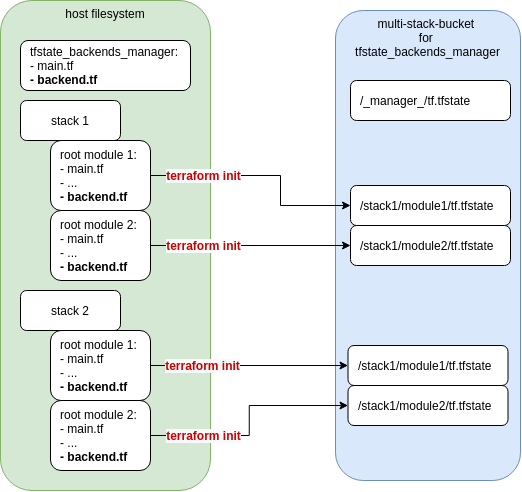
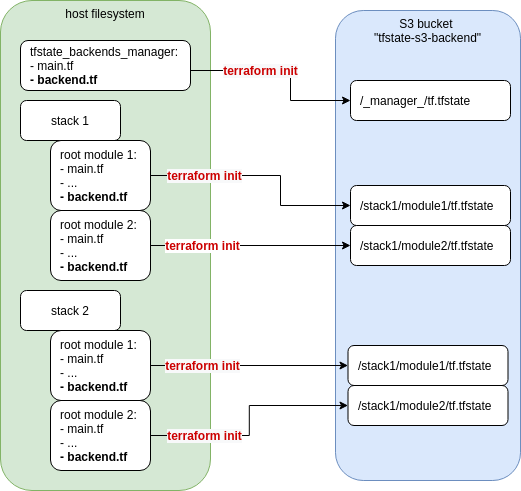
Only one dynamodb table needed

diff --git a/README.md b/README.md
@@ -1,15 +1,16 @@
-This terraform module facilitates the management of tfstate backends: 
+This terraform module facilitates the management of terraform state remote 
+backends: 
 
-- a bucket dedicated to storing the tfstates of multiple stacks
-- each stack can consist of multiple root modules (eg a root module for
-  network, another for databases, another for EKS cluster, etc) each 
-  having their own tfstate
-- the `backend.tf` of each root module of each stack is 
-  automatically generated
-- modifying one root module of a stack locks the whole stack, thereby
-  preventing the modification of another root module of the stack which
-  might depend on the other modules. 
-- This module's state can also be stored in s3 in same bucket (via 
+- One bucket for any number of terraform state.
+- Support for the notion of "stack", consisting of multiple building blocks
+  in the form of terraform root modules. Eg a terraform state for a root 
+  module focussed on a stack's network resources, another state for a root
+  module focussed on a stack's databases, another for a stack's EKS cluster,
+  etc; 
+- Automatic generation of the `backend.tf` of each root module of each 
+  stack, thus eliminating the chicken-and-egg dance that is otherwise 
+  required to provision a new stack
+- Support for storing this module's state in s3 in same bucket (via 
   `this_tfstate_in_s3` variable). 
   
 The list of stacks to manage is a tree: 
